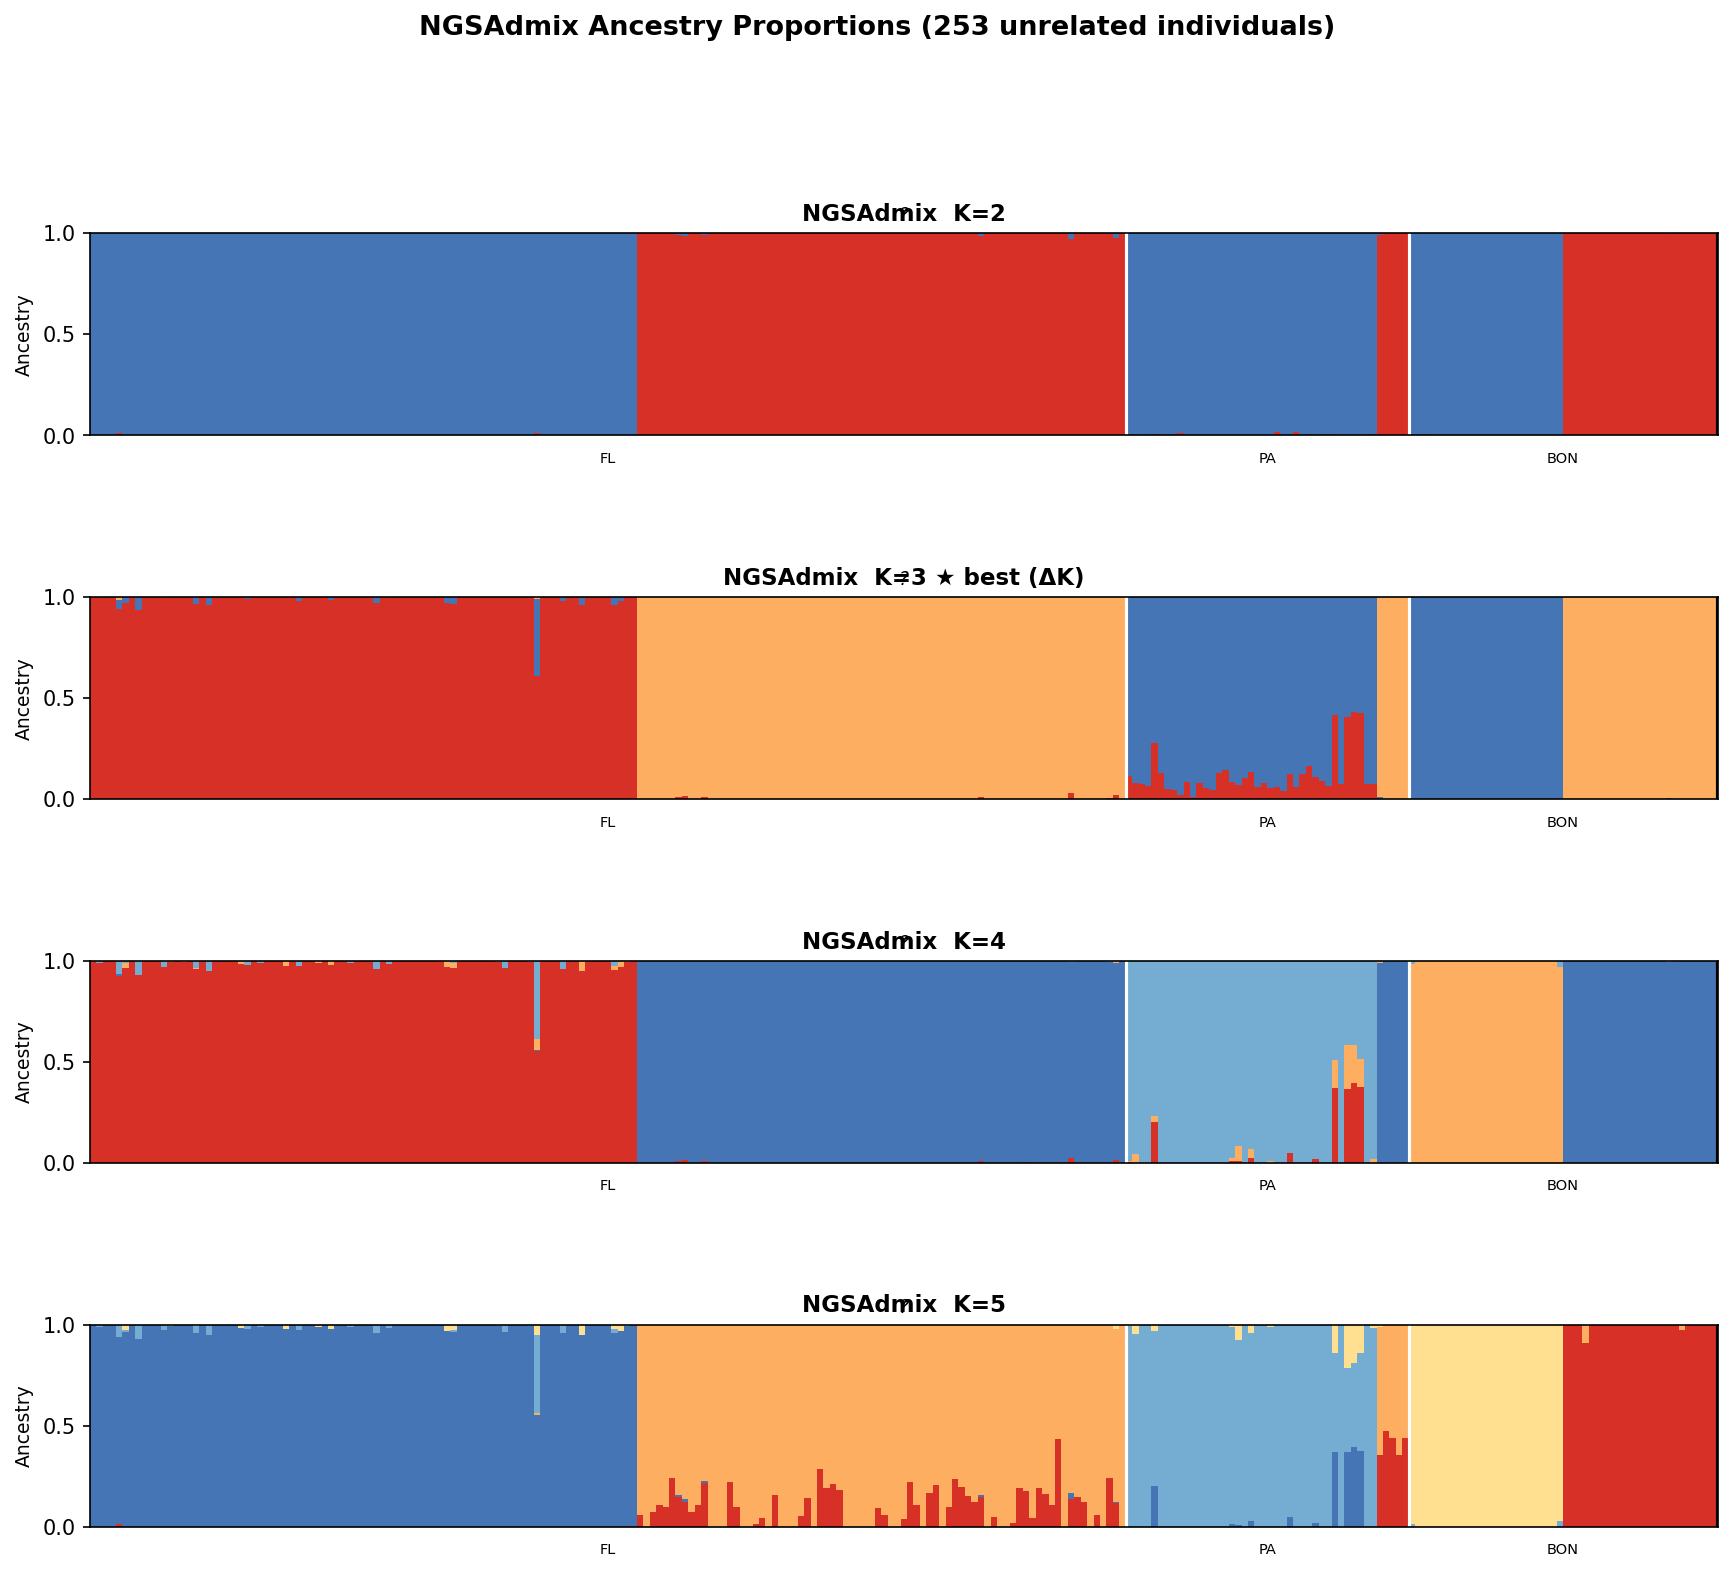
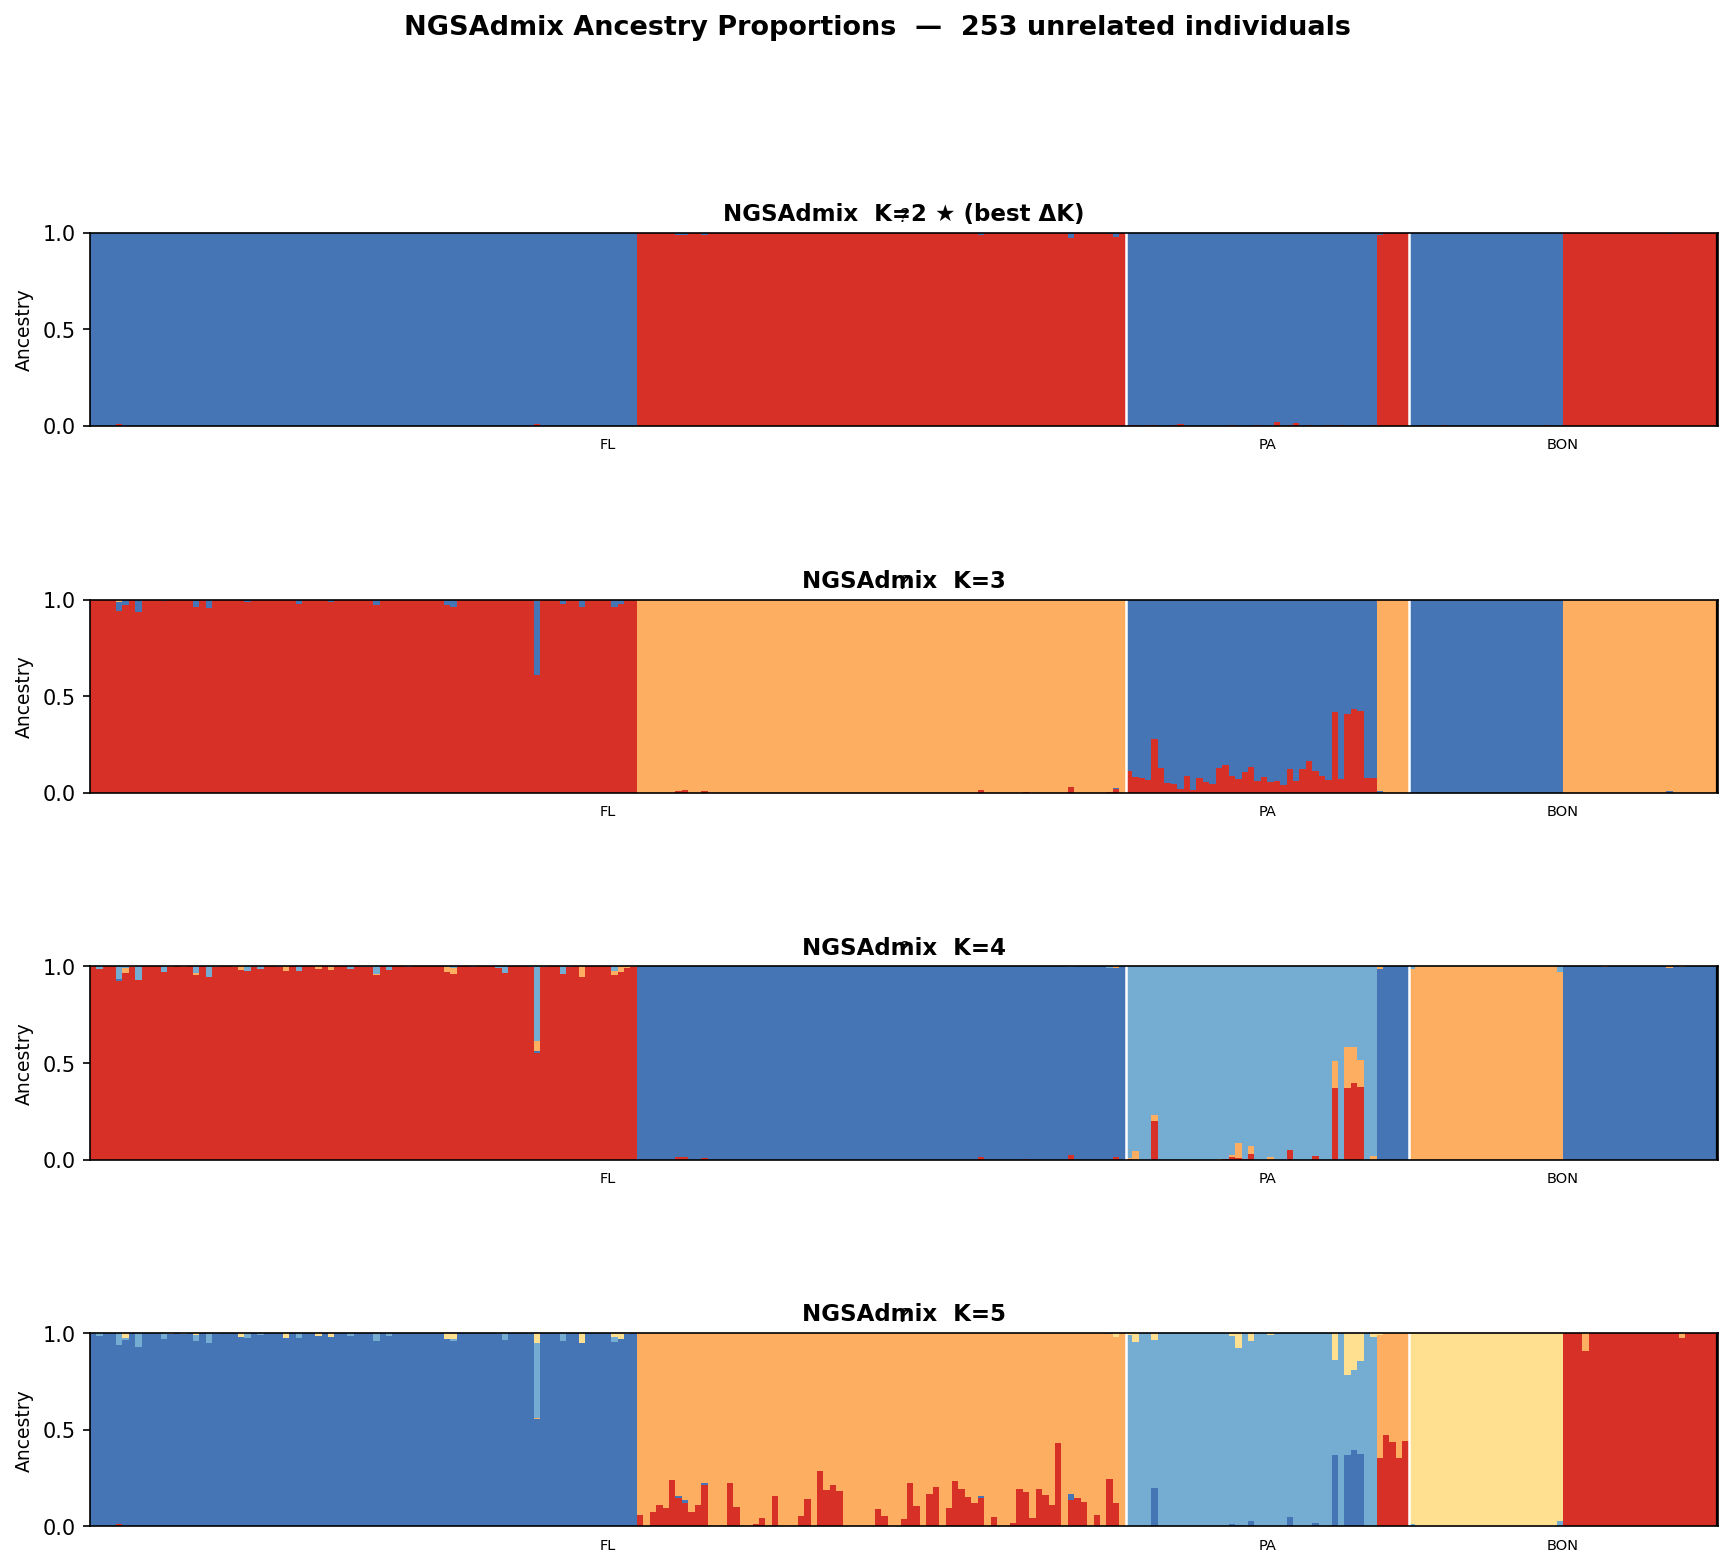
NGSAdmix publication rerun: K=1-10, 20 reps; best K=2 confirmed
Updated NGSAdmix results with full K=1-10, 20-replicate run:
- Best K=2 by Evanno delta-K (K=1 anchor now included) — dominant signal
  is the A. palmata / A. cervicornis species split (delta-K > 1e8)
- K=3 secondary signal (delta-K=2.06): geographic structure in A. cervicornis
- K=2 SD near-zero (0.021): all 20 reps converge identically
- Both NGSAdmix and PCAngsd agree on K=2 best and K=3 secondary structure
- New compact figure: ngsadmix_K2_K5_compact.png
- Updated RESULTS.md with full delta-K table (K=1-10) and corrected interpretation

diff --git a/RESULTS.md b/RESULTS.md
@@ -3,8 +3,8 @@
 Multi-species *Acropora* population genomics — *A. cervicornis* and *A. palmata* across
 Florida, Panama, and Bonaire, aligned to the *A. palmata* reference genome (Vollmer Lab).
 
-> **Status (2026-03-17):** 290-sample Discovery HPC run — Segment 2 complete (SNP discovery,
-> relatedness/clonality). Segment 3 (PCA, admixture) and Segment 4 (diversity, FST) pending.
+> **Status (2026-03-21):** 290-sample Discovery HPC run — Segments 2–3 complete (SNP discovery,
+> relatedness, PCA, admixture K=1–10). Segment 4 (diversity, FST) running; moments 2D SFS in progress.
 
 ---
 
@@ -115,28 +115,41 @@ Notable clusters:
 
 #### NGSAdmix (likelihood-based admixture)
 
-![NGSAdmix K=2](docs/figures/ngsadmix_K2.png)
+Publication run: K=1–10, 20 replicates per K. Sample order: *A. palmata* (lineageA) then
+*A. cervicornis* (lineageB), within each species ordered FL → PA → BON.
+
 ![NGSAdmix delta-K](docs/figures/ngsadmix_deltaK.png)
 ![NGSAdmix K2–K5](docs/figures/ngsadmix_admixture_K2_K5.png)
 
-| K | Mean log-likelihood | ΔK |
-|---|--------------------|----|
-| 2 | −3,974,237 | — |
-| **3** | **−3,853,454** | **1.74 ← best** |
-| 4 | −3,793,769 | 0.40 |
-| 5 | −3,721,078 | — |
+| K | Mean log-likelihood | SD | ΔK |
+|---|--------------------|----|-----|
+| 1 | −6,549,622 | 0.000 | — |
+| **2** | **−3,974,237** | **0.021** | **116,672,186 ← best** |
+| 3 | −3,849,058 | 31,391 | 2.06 |
+| 4 | −3,788,521 | 24,258 | 0.05 |
+| 5 | −3,726,893 | 18,489 | 1.18 |
+| 6 | −3,687,051 | 12,578 | 1.45 |
+| 7 | −3,665,497 | 7,290 | 0.25 |
+| 8 | −3,645,779 | 6,426 | 0.45 |
+| 9 | −3,628,977 | 5,994 | 0.09 |
+| 10 | −3,611,633 | 1,949 | — |
 
-- **Best K = 3** by Evanno delta-K method
-- K=2 confirms species separation identical to PCAngsd (0 admixed individuals)
-- K=3 adds geographic sub-structure within *A. cervicornis* (FL vs PA/BON)
+- **Best K = 2** by Evanno delta-K (K=1 anchor included) — massively dominant signal is the
+  *A. palmata* / *A. cervicornis* species split
+- K=2 SD near-zero (0.021) → 20/20 reps converge to identical solution; high confidence
+- K=3 secondary signal (delta-K = 2.06): geographic sub-structure within *A. cervicornis*
+  (FL vs PA/BON); same result as PCAngsd PC2
+- K=4–10 show low, noisy delta-K consistent with stochastic over-splitting
+- **106 lineageA** (*A. palmata*), **147 lineageB** (*A. cervicornis*), **0 admixed** at K=2
+  (identical to PCAngsd result)
 
 #### PCAngsd vs NGSAdmix comparison
 
 ![Admixture comparison K=2](docs/figures/admix_compare_K2.png)
 ![Admixture comparison K2–K5](docs/figures/admix_compare_K2_K5.png)
 
-Both methods agree completely at K=2. At K=3+ both identify the same geographic sub-structure
-within *A. cervicornis*, with NGSAdmix showing slightly cleaner separation.
+Both methods agree completely. K=2 best by Evanno in NGSAdmix; same clean species separation
+in PCAngsd. At K=3 both identify FL vs PA/BON sub-structure within *A. cervicornis*.
 
 ---
 
